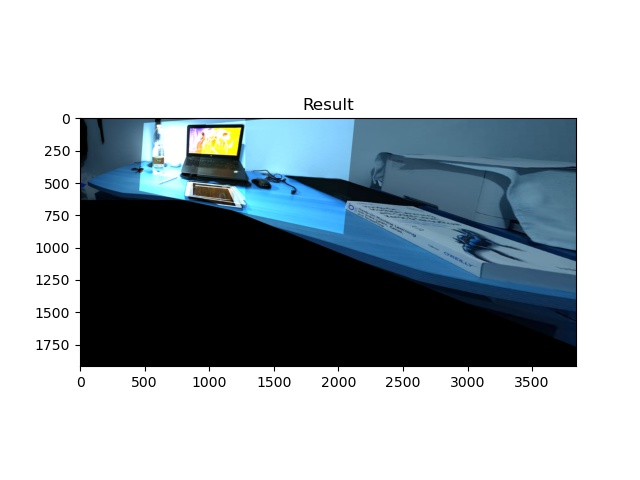
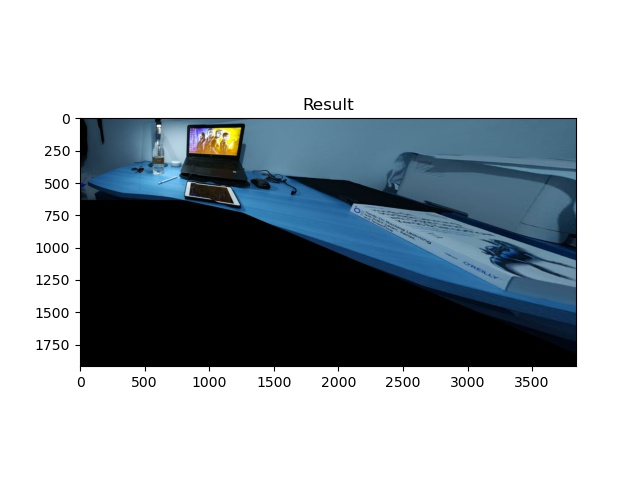
Color correction by new type of summing with numpy and not with openCV

Changed region(s): [[0.2188, 0.25, 0.9062, 0.7188]]

diff --git a/automatic2dmosaicing.py b/automatic2dmosaicing.py
@@ -18,11 +18,13 @@ import matplotlib.pyplot as plt
 SRC_IMAGES_FOLDER = "images"
 SRC_TEST = ["test_1", "test_2", "test_3"]
 
+CONSIDERED = SRC_TEST[2]
+
 DST_MOSAICING_FOLDER = "mosaicing"
 
 # Read the images
 print("[INFO] loading images...")
-imagePaths = sorted(list(paths.list_images(f"{SRC_IMAGES_FOLDER}/{SRC_TEST[0]}")))
+imagePaths = sorted(list(paths.list_images(f"{SRC_IMAGES_FOLDER}/{CONSIDERED}")))
 images = []
 
 # For every given path we read the corrisponding image and we put it in the list of images
@@ -89,8 +91,10 @@ while i < len(images):
         # result[0:ref_img.shape[0], 0:ref_img.shape[1]] = ref_img
         # ref_img = result
         # ref_img = cv.addWeighted(src1=ref_img, alpha=0.8, src2=result, beta=0.5, gamma=0)
-        ref_img = cv.add(src1=ref_img, src2=result)
-        plt.title("Result"),plt.imshow(ref_img), plt.savefig(f"{DST_MOSAICING_FOLDER}/mosaicing_{i}.jpg"), plt.show()
+        # ref_img = cv.add(src1=ref_img, src2=result)
+        ref_img = np.where(result == 0, np.add(ref_img, result), result)
+        plt.title("Result"),plt.imshow(ref_img), plt.savefig(f"{DST_MOSAICING_FOLDER}/{CONSIDERED}/mosaicing_{i}.jpg"), plt.show()
+
         (ref_kp, ref_des) = sift.detectAndCompute(ref_img, None)
         i = i + 1
     else:
